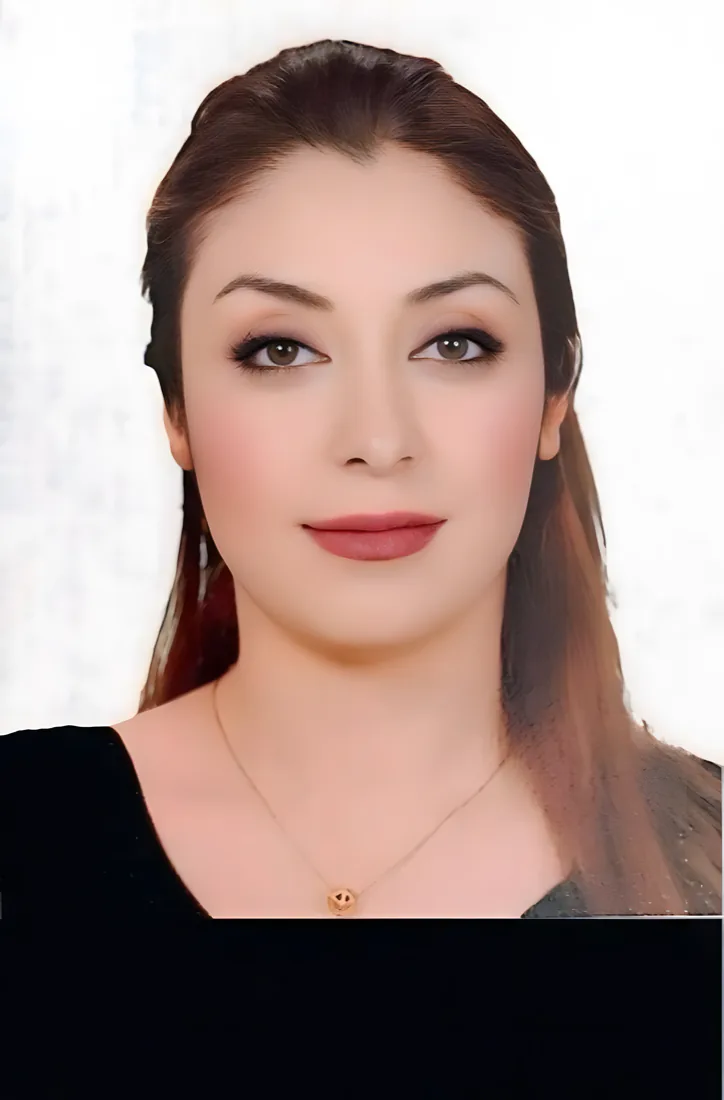
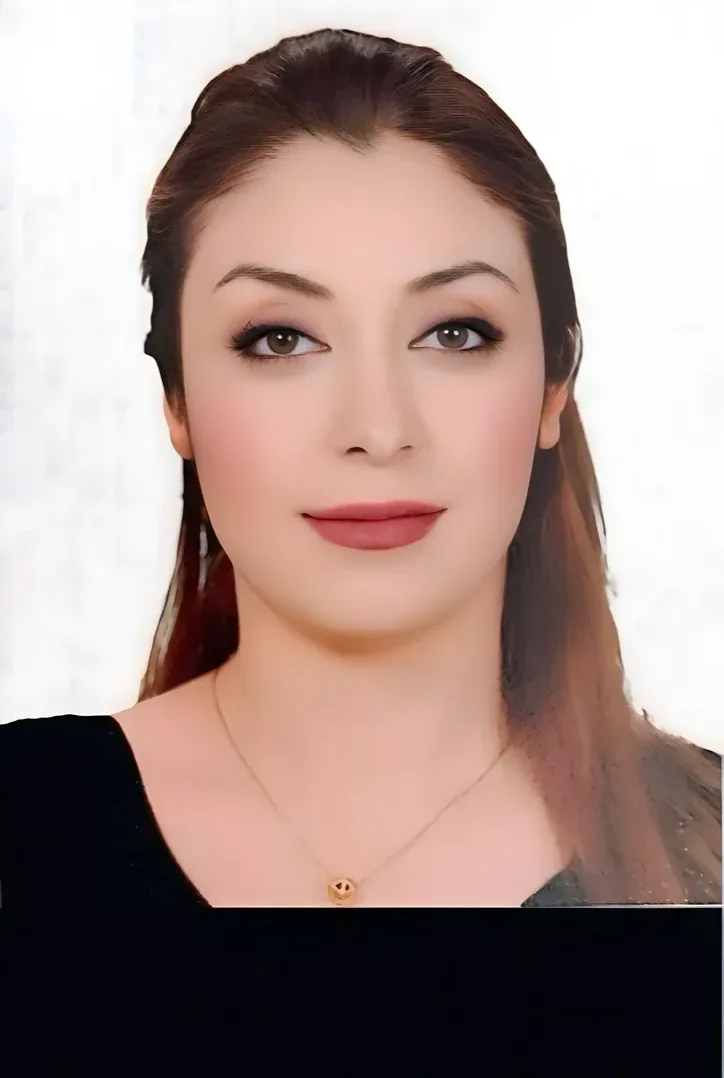
ibrahim-khouri-advocates: art-direction round 2 fixes

diff --git a/ibrahim-khouri-advocates/about.html b/ibrahim-khouri-advocates/about.html
@@ -60,7 +60,7 @@
   <div class="wrap">
     <h2 class="h2" id="tm-h" data-reveal="lines">Who you will meet</h2>
     <p class="lede" data-reveal data-reveal-delay="120" style="margin:22px 0 10px">The lawyers, consultants and staff of the four offices, as listed on the firm's team page.</p>
-    <div class="team" data-reveal-stagger="70"><figure class="mem" data-reveal><div class="ph"><img src="img/p-maha-alkurdi.webp" alt="Maha Alkurdi" loading="lazy" width="800" height="1000"></div><h4>Maha Alkurdi</h4><p>Executive Manager · Dubai</p></figure><figure class="mem" data-reveal><div class="ph"><img src="img/p-mohammed-asfour.webp" alt="Mohammed Asfour" loading="lazy" width="800" height="1000"></div><h4>Mohammed Asfour</h4><p>Legal Consultant · Dubai · Arabic, English</p></figure><figure class="mem" data-reveal><div class="ph"><img src="img/p-nadjah-belarouci.webp" alt="Nadjah Belarouci" loading="lazy" width="800" height="1000"></div><h4>Nadjah Belarouci</h4><p>Secretary · Dubai · Arabic, English</p></figure><figure class="mem" data-reveal><div class="ph"><img src="img/p-idris-musa.webp" alt="Idris Musa" loading="lazy" width="800" height="1000"></div><h4>Idris Musa</h4><p>Legal Consultant · Abu Dhabi</p></figure><figure class="mem" data-reveal><div class="ph"><img src="img/p-mohamed-soudi.webp" alt="Mohamed Mostafa Soudi" loading="lazy" width="800" height="1000"></div><h4>Mohamed Mostafa Soudi</h4><p>Legal Advisor · Al Ain</p></figure><figure class="mem" data-reveal><div class="ph"><img src="img/p-faten-baraka.webp" alt="Faten Jamal Baraka" loading="lazy" width="800" height="1000"></div><h4>Faten Jamal Baraka</h4><p>Legal Secretary · Al Ain · Arabic, English. BA in English, Al-Aqsa University</p></figure><figure class="mem" data-reveal><div class="ph"><img src="img/p-aziza-jiyid.webp" alt="Aziza Jiyid" loading="lazy" width="800" height="1000"></div><h4>Aziza Jiyid</h4><p>Office Manager · Sharjah · Arabic, English</p></figure><figure class="mem" data-reveal><div class="ph"><img src="img/p-iqra-choudhry.webp" alt="Iqra Choudhry" loading="lazy" width="800" height="1000"></div><h4>Iqra Choudhry</h4><p>Legal Officer · Sharjah · Arabic, English</p></figure><figure class="mem" data-reveal><div class="ph"><img src="img/p-ahmed-mostafa.webp" alt="Ahmed Mostafa" loading="lazy" width="800" height="1000"></div><h4>Ahmed Mostafa</h4><p>Legal Consultant · Sharjah</p></figure><figure class="mem" data-reveal><div class="ph"><img src="img/p-mahmoud-elsayed.webp" alt="Mahmoud Elsayed" loading="lazy" width="800" height="1000"></div><h4>Mahmoud Elsayed</h4><p>Accountant</p></figure></div>
+    <div class="team" data-reveal-stagger="70"><figure class="mem" data-reveal><div class="ph"><img src="img/p-maha-alkurdi.webp" alt="Maha Alkurdi" loading="lazy" width="800" height="1000"></div><h4>Maha Alkurdi</h4><p>Executive Manager · Dubai</p></figure><figure class="mem is-bright" data-reveal><div class="ph"><img src="img/p-mohammed-asfour.webp" alt="Mohammed Asfour" loading="lazy" width="800" height="1000"></div><h4>Mohammed Asfour</h4><p>Legal Consultant · Dubai · Arabic, English</p></figure><figure class="mem" data-reveal><div class="ph"><img src="img/p-nadjah-belarouci.webp" alt="Nadjah Belarouci" loading="lazy" width="800" height="1000"></div><h4>Nadjah Belarouci</h4><p>Secretary · Dubai · Arabic, English</p></figure><figure class="mem" data-reveal><div class="ph"><img src="img/p-idris-musa.webp" alt="Idris Musa" loading="lazy" width="800" height="1000"></div><h4>Idris Musa</h4><p>Legal Consultant · Abu Dhabi</p></figure><figure class="mem" data-reveal><div class="ph"><img src="img/p-mohamed-soudi.webp" alt="Mohamed Mostafa Soudi" loading="lazy" width="800" height="1000"></div><h4>Mohamed Mostafa Soudi</h4><p>Legal Advisor · Al Ain</p></figure><figure class="mem" data-reveal><div class="ph"><img src="img/p-faten-baraka.webp" alt="Faten Jamal Baraka" loading="lazy" width="800" height="1000"></div><h4>Faten Jamal Baraka</h4><p>Legal Secretary · Al Ain · Arabic, English. BA in English, Al-Aqsa University</p></figure><figure class="mem" data-reveal><div class="ph"><img src="img/p-aziza-jiyid.webp" alt="Aziza Jiyid" loading="lazy" width="800" height="1000"></div><h4>Aziza Jiyid</h4><p>Office Manager · Sharjah · Arabic, English</p></figure><figure class="mem" data-reveal><div class="ph"><img src="img/p-iqra-choudhry.webp" alt="Iqra Choudhry" loading="lazy" width="800" height="1000"></div><h4>Iqra Choudhry</h4><p>Legal Officer · Sharjah · Arabic, English</p></figure><figure class="mem" data-reveal><div class="ph"><img src="img/p-ahmed-mostafa.webp" alt="Ahmed Mostafa" loading="lazy" width="800" height="1000"></div><h4>Ahmed Mostafa</h4><p>Legal Consultant · Sharjah</p></figure><figure class="mem" data-reveal><div class="ph"><img src="img/p-mahmoud-elsayed.webp" alt="Mahmoud Elsayed" loading="lazy" width="800" height="1000"></div><h4>Mahmoud Elsayed</h4><p>Accountant</p></figure></div>
     <div class="pair">
       <figure><div class="ph" data-reveal="clip"><img src="img/team-office.webp" alt="Lawyers of the firm standing together in front of the law library" width="1600" height="1159" loading="lazy"></div><figcaption>Lawyers of the firm in the office.</figcaption></figure>
       <figure><div class="ph" data-reveal="clip" data-reveal-delay="150"><img src="img/team-visit.webp" alt="Members of the firm with a visitor in the office" width="1600" height="1159" loading="lazy"></div><figcaption>In the office, from the firm's photo gallery.</figcaption></figure>

diff --git a/ibrahim-khouri-advocates/ar/index.html b/ibrahim-khouri-advocates/ar/index.html
@@ -73,11 +73,13 @@
           <div><dt>أساس العمل</dt><dd>التقاضي، التحكيم، التسوية</dd></div>
         </dl>
       </div>
-      <figure class="stmt__fig">
-        <div class="ph" data-reveal="clip"><img src="../img/desk.webp" alt="المدير التنفيذي للمكتب يقرأ أوراق قضية على مكتبه وخلفه كتب القانون" width="1800" height="1800" loading="lazy"></div>
-        <figcaption>المدير التنفيذي للمكتب على مكتبه.</figcaption>
-      </figure>
-      <p class="stmt__side" data-reveal data-reveal-delay="150"><b>2008</b>سنة افتتاح المكتب في دبي</p>
+      <div class="stmt__side">
+        <figure class="stmt__fig">
+          <div class="ph" data-reveal="clip"><img src="../img/desk.webp" alt="المدير التنفيذي للمكتب يقرأ أوراق قضية على مكتبه وخلفه كتب القانون" width="1800" height="1800" loading="lazy"></div>
+          <figcaption>المدير التنفيذي للمكتب على مكتبه.</figcaption>
+        </figure>
+        <p class="stmt__yr" data-reveal data-reveal-delay="150"><b>2008</b>سنة افتتاح المكتب في دبي</p>
+      </div>
     </div>
   </div>
 </section>
@@ -177,8 +179,7 @@
       <div class="k-drag__btns"><button type="button" data-k-drag-prev aria-label="السابق">←</button><button type="button" data-k-drag-next aria-label="التالي">→</button></div>
     </div>
     <div class="k-drag__track" tabindex="0" role="region" aria-label="فريق العمل، اسحب جانباً">
-      <figure class="k-drag__card"><div class="k-drag__fig"><img src="../img/p-maha-alkurdi.webp" alt="Maha Alkurdi" loading="lazy" draggable="false" width="724" height="1100"></div><h3 lang="en">Maha Alkurdi</h3><p>المدير التنفيذي · دبي</p></figure>
-      <figure class="k-drag__card"><div class="k-drag__fig"><img src="../img/p-mohammed-asfour.webp" alt="Mohammed Asfour" loading="lazy" draggable="false" width="795" height="1100"></div><h3 lang="en">Mohammed Asfour</h3><p>مستشار قانوني · دبي</p></figure>
+      <figure class="k-drag__card"><div class="k-drag__fig"><img src="../img/p-maha-alkurdi.webp" alt="Maha Alkurdi" loading="lazy" draggable="false" width="724" height="1078"></div><h3 lang="en">Maha Alkurdi</h3><p>المدير التنفيذي · دبي</p></figure>
       <figure class="k-drag__card"><div class="k-drag__fig"><img src="../img/p-idris-musa.webp" alt="Idris Musa" loading="lazy" draggable="false" width="1063" height="1100"></div><h3 lang="en">Idris Musa</h3><p>مستشار قانوني · أبوظبي</p></figure>
       <figure class="k-drag__card"><div class="k-drag__fig"><img src="../img/p-mohamed-soudi.webp" alt="Mohamed Mostafa Soudi" loading="lazy" draggable="false" width="1096" height="1100"></div><h3 lang="en">Mohamed Mostafa Soudi</h3><p>مستشار قانوني · العين</p></figure>
       <figure class="k-drag__card"><div class="k-drag__fig"><img src="../img/p-faten-baraka.webp" alt="فاتن جمال بركة" loading="lazy" draggable="false" width="840" height="1100"></div><h3>فاتن جمال بركة</h3><p>سكرتيرة قانونية · العين</p></figure>
@@ -187,6 +188,7 @@
       <figure class="k-drag__card"><div class="k-drag__fig"><img src="../img/p-aziza-jiyid.webp" alt="Aziza Jiyid" loading="lazy" draggable="false" width="781" height="1100"></div><h3 lang="en">Aziza Jiyid</h3><p>مديرة المكتب · الشارقة</p></figure>
       <figure class="k-drag__card"><div class="k-drag__fig"><img src="../img/p-nadjah-belarouci.webp" alt="Nadjah Belarouci" loading="lazy" draggable="false" width="914" height="1100"></div><h3 lang="en">Nadjah Belarouci</h3><p>سكرتيرة · دبي</p></figure>
       <figure class="k-drag__card"><div class="k-drag__fig"><img src="../img/p-mahmoud-elsayed.webp" alt="Mahmoud Elsayed" loading="lazy" draggable="false" width="819" height="1100"></div><h3 lang="en">Mahmoud Elsayed</h3><p>محاسب</p></figure>
+      <figure class="k-drag__card is-bright"><div class="k-drag__fig"><img src="../img/p-mohammed-asfour.webp" alt="Mohammed Asfour" loading="lazy" draggable="false" width="795" height="1100"></div><h3 lang="en">Mohammed Asfour</h3><p>مستشار قانوني · دبي</p></figure>
     </div>
     <div class="k-drag__bar" aria-hidden="true"><i></i></div>
   </div>

diff --git a/ibrahim-khouri-advocates/index.html b/ibrahim-khouri-advocates/index.html
@@ -75,11 +75,13 @@
           <div><dt>Main work</dt><dd>Litigation, arbitration, settlement</dd></div>
         </dl>
       </div>
-      <figure class="stmt__fig">
-        <div class="ph" data-reveal="clip"><img src="img/desk.webp" alt="The firm's executive director reading case papers at his desk, law books behind him" width="1800" height="1800" loading="lazy"></div>
-        <figcaption>Our executive director at his desk.</figcaption>
-      </figure>
-      <p class="stmt__side" data-reveal data-reveal-delay="150"><b>2008</b>the year the firm opened in Dubai</p>
+      <div class="stmt__side">
+        <figure class="stmt__fig">
+          <div class="ph" data-reveal="clip"><img src="img/desk.webp" alt="The firm's executive director reading case papers at his desk, law books behind him" width="1800" height="1800" loading="lazy"></div>
+          <figcaption>Our executive director at his desk.</figcaption>
+        </figure>
+        <p class="stmt__yr" data-reveal data-reveal-delay="150"><b>2008</b>the year the firm opened in Dubai</p>
+      </div>
     </div>
   </div>
 </section>
@@ -183,8 +185,7 @@
       <div class="k-drag__btns"><button type="button" data-k-drag-prev aria-label="Previous people">←</button><button type="button" data-k-drag-next aria-label="Next people">→</button></div>
     </div>
     <div class="k-drag__track" tabindex="0" role="region" aria-label="Team members, scroll sideways">
-      <figure class="k-drag__card"><div class="k-drag__fig"><img src="img/p-maha-alkurdi.webp" alt="Maha Alkurdi" loading="lazy" draggable="false" width="724" height="1100"></div><h3>Maha Alkurdi</h3><p>Executive Manager · Dubai</p></figure>
-      <figure class="k-drag__card"><div class="k-drag__fig"><img src="img/p-mohammed-asfour.webp" alt="Mohammed Asfour" loading="lazy" draggable="false" width="795" height="1100"></div><h3>Mohammed Asfour</h3><p>Legal Consultant · Dubai</p></figure>
+      <figure class="k-drag__card"><div class="k-drag__fig"><img src="img/p-maha-alkurdi.webp" alt="Maha Alkurdi" loading="lazy" draggable="false" width="724" height="1078"></div><h3>Maha Alkurdi</h3><p>Executive Manager · Dubai</p></figure>
       <figure class="k-drag__card"><div class="k-drag__fig"><img src="img/p-idris-musa.webp" alt="Idris Musa" loading="lazy" draggable="false" width="1063" height="1100"></div><h3>Idris Musa</h3><p>Legal Consultant · Abu Dhabi</p></figure>
       <figure class="k-drag__card"><div class="k-drag__fig"><img src="img/p-mohamed-soudi.webp" alt="Mohamed Mostafa Soudi" loading="lazy" draggable="false" width="1096" height="1100"></div><h3>Mohamed Mostafa Soudi</h3><p>Legal Advisor · Al Ain</p></figure>
       <figure class="k-drag__card"><div class="k-drag__fig"><img src="img/p-faten-baraka.webp" alt="Faten Jamal Baraka" loading="lazy" draggable="false" width="840" height="1100"></div><h3>Faten Jamal Baraka</h3><p>Legal Secretary · Al Ain</p></figure>
@@ -193,6 +194,7 @@
       <figure class="k-drag__card"><div class="k-drag__fig"><img src="img/p-aziza-jiyid.webp" alt="Aziza Jiyid" loading="lazy" draggable="false" width="781" height="1100"></div><h3>Aziza Jiyid</h3><p>Office Manager · Sharjah</p></figure>
       <figure class="k-drag__card"><div class="k-drag__fig"><img src="img/p-nadjah-belarouci.webp" alt="Nadjah Belarouci" loading="lazy" draggable="false" width="914" height="1100"></div><h3>Nadjah Belarouci</h3><p>Secretary · Dubai</p></figure>
       <figure class="k-drag__card"><div class="k-drag__fig"><img src="img/p-mahmoud-elsayed.webp" alt="Mahmoud Elsayed" loading="lazy" draggable="false" width="819" height="1100"></div><h3>Mahmoud Elsayed</h3><p>Accountant</p></figure>
+      <figure class="k-drag__card is-bright"><div class="k-drag__fig"><img src="img/p-mohammed-asfour.webp" alt="Mohammed Asfour" loading="lazy" draggable="false" width="795" height="1100"></div><h3>Mohammed Asfour</h3><p>Legal Consultant · Dubai</p></figure>
     </div>
     <div class="k-drag__bar" aria-hidden="true"><i></i></div>
   </div>

diff --git a/ibrahim-khouri-advocates/site.css b/ibrahim-khouri-advocates/site.css
@@ -79,8 +79,8 @@ em,.it{font-family:var(--serif);font-style:italic;font-weight:400}
 [dir=rtl] .hero__ar{text-align:right}
 .hero__name{--nm:clamp(5.4rem,22vw,21rem);font:400 var(--nm)/.8 var(--display);letter-spacing:-.035em;margin:30px 0 -.035em -.04em;white-space:nowrap;position:relative;display:grid;justify-self:start;align-self:end}
 .hero__name .first{display:flex;justify-content:space-between;align-items:baseline;gap:.6em;font:italic 400 clamp(1.6rem,3.4vw,3.6rem)/1 var(--serif);letter-spacing:0;margin:0 0 .35em .12em}
-.hero__name .lock{font:600 calc(var(--nm)*.4)/1 "Markazi Text",serif;font-style:normal;letter-spacing:0;color:var(--on-night-mute);margin-inline-end:.05em}
-.hero__name .lock--lat{font:400 calc(var(--nm)*.36)/1 var(--latin,"Libre Caslon Display"),Georgia,serif;letter-spacing:-.02em}
+.hero__name .lock{font:600 calc(var(--nm)*.28)/1 "Markazi Text",serif;font-style:normal;letter-spacing:0;color:var(--on-night-mute);margin-inline-end:.05em}
+.hero__name .lock--lat{font:400 calc(var(--nm)*.26)/1 var(--latin,"Libre Caslon Display"),Georgia,serif;letter-spacing:-.02em}
 .hero__name .ch{display:inline-block}
 .hero__name .mask{display:inline-block;overflow:hidden;padding-bottom:.06em;vertical-align:bottom}
 @media (max-width:820px){
@@ -168,13 +168,13 @@ a:hover .k-roll>span{transform:translateY(-50%)}
 .facts div{display:grid;grid-template-columns:9.5em 1fr;gap:16px;padding:14px 0;border-bottom:1px solid var(--line)}
 .facts dt{font-size:.9rem;color:var(--mute)}
 .facts dd{font-weight:500}
-.stmt__fig{margin:0;max-width:340px}
+.stmt__fig{margin:0 0 34px;max-width:280px}
 .stmt__fig .ph{overflow:hidden;aspect-ratio:4/5}
 .stmt__fig img{width:100%;height:100%;object-fit:cover;object-position:40% 30%}
 .stmt__fig figcaption{font-size:.86rem;color:var(--mute);margin-top:12px}
-@media (min-width:900px){.stmt__grid{grid-template-columns:1.25fr .9fr .55fr}.stmt__fig{grid-column:2;margin-top:10px}.stmt__text{grid-column:1;grid-row:1}.stmt__side{grid-column:3;grid-row:1;align-self:end}}
-.stmt__side{font:italic 400 1.15rem/1.5 var(--serif);color:var(--mute)}
-.stmt__side b{display:block;font:400 clamp(4rem,7vw,6.6rem)/.9 var(--display);font-style:normal;color:var(--ink);letter-spacing:-.03em;margin-bottom:10px}
+@media (min-width:900px){.stmt__grid{grid-template-columns:1.4fr 1fr}.stmt__side{justify-self:end;width:280px}}
+.stmt__yr{font:italic 400 1.15rem/1.5 var(--serif);color:var(--mute)}
+.stmt__yr b{display:block;font:400 clamp(4rem,7vw,6.6rem)/.9 var(--display);font-style:normal;color:var(--ink);letter-spacing:-.03em;margin-bottom:10px}
 
 /* practice index (kit 11 restyled) */
 .prac{display:grid;gap:clamp(30px,5vw,80px)}
@@ -423,3 +423,15 @@ html:lang(ar) .ltr{direction:ltr;unicode-bidi:isolate;display:inline-block}
   .tlink::after,.item__acts a::after,.off li a::after{content:"";position:absolute;inset:-7px -4px}
   .item__acts{gap:12px 26px}
 }
+
+/* round 2 */
+.k-drag__card.is-bright img,.mem.is-bright img{filter:grayscale(1) brightness(.92) contrast(1.15)}
+.k-drag__card.is-bright:hover img,.k-drag__card.is-bright:focus-within img,.mem.is-bright:hover img,.mem.is-bright:focus-within img{filter:brightness(.95) contrast(1.08)}
+.svc__group--grid{background:#f0eeeb;border-top:0;padding:clamp(28px,4vw,56px)}
+.svc__group--grid .item{grid-template-columns:1fr;gap:12px;padding:0;border:0;align-content:start}
+.svc__group--grid .item h3{font-size:clamp(1.6rem,2.3vw,2.1rem)}
+.svc__group--grid .item ul{display:none}
+.svc__group--grid .item__acts{margin-top:14px}
+@media (min-width:800px){.svc__group--grid{display:grid;grid-template-columns:1fr 1fr;column-gap:clamp(32px,4vw,64px);row-gap:72px}.svc__group--grid .svc__gh{grid-column:1/-1;margin-bottom:-24px}}
+@media (max-width:799px){.svc__group--grid .item+.item{margin-top:48px}.svc__group--grid .svc__gh{margin-bottom:30px}}
+@media (max-width:560px){.courts .h2{font-size:clamp(1.85rem,8vw,2.6rem);letter-spacing:-.02em}html:lang(ar) .courts .h2{font-size:clamp(2rem,9vw,2.6rem)}}

diff --git a/ibrahim-khouri-advocates/ar/services.html b/ibrahim-khouri-advocates/ar/services.html
@@ -156,7 +156,7 @@
       <div class="ph" data-reveal="clip"><img src="../img/team-office.webp" alt="محامو المكتب معاً أمام المكتبة القانونية" width="1600" height="1159" loading="lazy"></div>
       <div><p>«من إرسال الإشعار القانوني حتى صدور الحكم، وما يليه من إجراءات.»</p><small>كما يصف المكتب عمله</small></div>
     </figure>
-    <section class="svc__group" aria-labelledby="g2">
+    <section class="svc__group svc__group--grid" aria-labelledby="g2">
       <div class="svc__gh"><h2 id="g2" data-reveal="lines">قضايا يتصل بنا الناس بشأنها</h2><span>11</span></div>
       <article class="item" id="cheque">
         <h3 data-reveal>قضايا الشيكات<small lang="en" style="font-family:var(--body);font-size:.9rem">Bounced cheques</small></h3>

diff --git a/ibrahim-khouri-advocates/services.html b/ibrahim-khouri-advocates/services.html
@@ -156,7 +156,7 @@
       <div class="ph" data-reveal="clip"><img src="img/team-office.webp" alt="Lawyers of the firm standing together in the office in front of the law library" width="1600" height="1159" loading="lazy"></div>
       <div><p>&ldquo;From sending the legal notice until the judgment and further proceedings.&rdquo;</p><small>How the firm describes its work</small></div>
     </figure>
-    <section class="svc__group" aria-labelledby="g2">
+    <section class="svc__group svc__group--grid" aria-labelledby="g2">
       <div class="svc__gh"><h2 id="g2" data-reveal="lines">Cases people call us about</h2><span>11</span></div>
       <article class="item" id="cheque">
         <h3 data-reveal>Bounced cheques<small lang="ar">قضايا الشيكات</small></h3>
